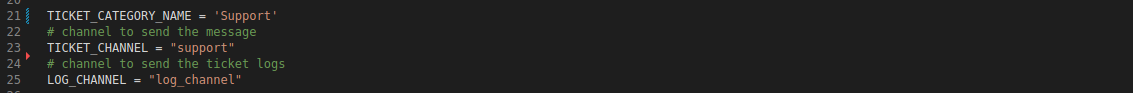
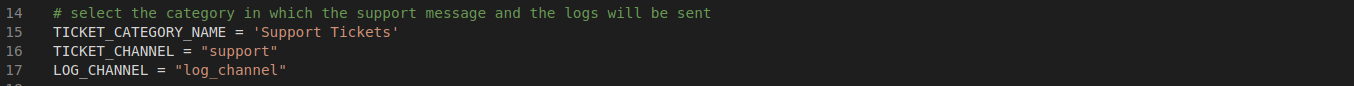
bug fixes: log sent to ticket owner. refactoring

diff --git a/bot.py b/bot.py
@@ -1,30 +1,23 @@
 # Author: brn
 
 import discord
-from discord import Permissions
 import os
 from dotenv import load_dotenv
+import re
 
-intents = discord.Intents.default()
-intents.message_content = True
-
-client = discord.Client(intents=intents)
-
-load_dotenv()
-TOKEN = os.getenv("DISCORD_TOKEN")
-
-###############CONFIG###############
-EMOJIS = ['🔑', '🥅', '📟', '👾', '🔫', '❓', '🍌'] # crypto, network, web, reverse, pwn, osint, hardware
-DELETE_EMOJI = '⛔'
+#######################################  BEGIN CONFIG  #######################################
+# select the emoji for the challenge category and for closing the ticket
 MAP_EMOJIS_CATEGORY = {'🔑': 'crypto', '🥅': 'network', '📟': 'web', '👾': 'reverse', '🔫': 'pwn', '❓': 'osint', '🍌': 'hardware', '⛔': "delete"}
+OPEN_TICKET_EMOJIS = list(MAP_EMOJIS_CATEGORY.keys())[:-1]
+CLOSE_TICKET_EMOJI = list(MAP_EMOJIS_CATEGORY.keys())[-1]
 
-TICKET_CATEGORY_NAME = 'Support'
-# channel to send the message
+# select the category in which the support message and the logs will be sent
+TICKET_CATEGORY_NAME = 'Support Tickets'
 TICKET_CHANNEL = "support"
-# channel to send the ticket logs
 LOG_CHANNEL = "log_channel"
 
-SUPPORT_MESSAGE = """Welcome to the support channel!\n
+# configure the bot messages
+MESSAGE_SUPPORT_CHANNEL = """Welcome to the support channel!\n
 React with the emoji in order to create a ticket:
 Crypto-> 🔑;
 Network-> 🥅;
@@ -33,124 +26,158 @@ Reverse -> 👾;
 Pwn -> 🔫;
 Osint -> ❓;
 Hardware -> 🍌;"""
-TICKET_MESSAGE = f""", a team member will soon reply to you.
+MESSAGE_TICKET_OPEN = f""", a team member will soon reply to you.
 
 Message template:
 Challenge: CHALLENGE_NAME
 Question: QUESTION
 
-Click on {DELETE_EMOJI} to close the ticket!"""
-###############END CONFIG###############
+Click on {CLOSE_TICKET_EMOJI} to close the ticket!"""
+
+MESSAGE_TICKET_CLOSE = 'The ticket has been closed. Sending the ticket log to the admins...'
+MESSAGE_TICKET_SEND_LOG = 'Here is the log of your ticket:'
+#######################################  END CONFIG  #######################################
+
+#######################################  BEGIN FUNCTIONS  #######################################
+def create_ticket_log(messages, channel):
+
+    log_file = 'temp_log.txt'
+
+    # removing the ticket introduction message, useless
+    messages = messages[1:]
+    
+    # crafting the log message
+    log = f'Ticket log {channel.name}:\n\n'
+    for message in messages:
+        log += f'{message.author}: {message.content}\n'
+
+    # writing the log in a specific file and parsing it for discord use
+    with open(log_file, 'w') as f:
+        f.write(log)
+
+    return './' + log_file
+
+
+def get_ticket_owner(messages):
+
+    pattern = r'<([^>]+)>'
+    ticket_owner_id = int(re.findall(pattern, messages[0].content)[0][1:])
+    ticket_owner = client.get_user(ticket_owner_id)
+
+    return ticket_owner
+#######################################  END FUNCTIONS  #######################################
+
+intents = discord.Intents.default()
+intents.message_content = True
+intents.members = True
+
+client = discord.Client(intents=intents)
+
+load_dotenv()
+TOKEN = os.getenv("DISCORD_TOKEN")
 
 
 @client.event
 async def on_ready():
-    """It sends the support message to the selected channel."""
+    """It sends the support message to the selected channel and adds the emojis."""
 
     print('Bot is ready.')
 
-    # create support category and channel
+    # create support category and channel if they do not already exist
     guild = client.guilds[0]
     category = discord.utils.get(guild.categories, name=TICKET_CATEGORY_NAME)
     if not category:
         category = await guild.create_category_channel(TICKET_CATEGORY_NAME)
     channel = discord.utils.get(guild.channels, name=TICKET_CHANNEL)
     if not channel:
-        overwrites = {
+        ticket_channel_permissions = { # everyone: read permission, bot: read and write permissions
         guild.default_role: discord.PermissionOverwrite(read_messages=True, send_messages=False),
         guild.me: discord.PermissionOverwrite(read_messages=True, send_messages=True)
         }
-        channel = await category.create_text_channel(TICKET_CHANNEL, overwrites=overwrites)   
+        channel = await category.create_text_channel(TICKET_CHANNEL, overwrites=ticket_channel_permissions)   
 
     # clear the history
     await channel.purge()
 
-    message = await channel.send(SUPPORT_MESSAGE)
+    message = await channel.send(MESSAGE_SUPPORT_CHANNEL)
 
     # add the emojis to the message
-    for emoji in EMOJIS:
+    for emoji in OPEN_TICKET_EMOJIS:
         await message.add_reaction(emoji)
 
 
 @client.event
 async def on_reaction_add(reaction, user):
-    """Depending on the selected emoji, it will create the private channel or it will delete it."""
+    """It reacts differently based on the raised emoji:
+    - if the emoji does not belong to any allowed categories, do nothing;
+    - if the emoji belongs to the OPEN_TICKET_EMOJIS it creates the ticket accordingly;
+    - if the emoji belogs to the CLOSE_TICKET_EMOJI it closes the ticket and sends the log to the ticket owner;"""
+    
     emoji = reaction.emoji
 
     # if the emoji is not in the selected ones
     if emoji not in MAP_EMOJIS_CATEGORY:
         return
     
+    # get category based on the raised emoji. Be sure that exists a role in the server with the same name
     category = MAP_EMOJIS_CATEGORY[emoji]
 
-    # avoid recursive messages
+    # avoid recursive messages from the bot
     if user.id == client.user.id:
         return
     
+
     guild = reaction.message.guild
-    
-    ticket_category = discord.utils.get(guild.categories, name=TICKET_CATEGORY_NAME)
-    if not ticket_category:
-        ticket_category = await guild.create_category(TICKET_CATEGORY_NAME)
+    private_ticket_category = discord.utils.get(guild.categories, name=TICKET_CATEGORY_NAME)
 
-    # if the reaction belongs to the EMOJIS (it's not the delete emoji)
-    if str(reaction.emoji) in EMOJIS and reaction.message.content == SUPPORT_MESSAGE:
+    ########## Case 1: the emoji belongs to the OPEN_TICKET_EMOJIS
+    if str(reaction.emoji) in OPEN_TICKET_EMOJIS and reaction.message.content == MESSAGE_SUPPORT_CHANNEL:
 
-        # create the new channel with the right permissions (category+admin)
-        category_permission = {
+        # create the new channel with the right permissions (role+admin)
+        private_ticket_permissions = {
             guild.default_role: discord.PermissionOverwrite(read_messages=False),
             user: discord.PermissionOverwrite(read_messages=True),
-            # the category corresponds with a role. for a "web" ticket, a new channel is created with "admins", "web" role and person who created it.
             discord.utils.get(guild.roles, name=category): discord.PermissionOverwrite(read_messages=True)
         }
-
-        # creating the channel and sending the initial message
-        channel = await guild.create_text_channel(f'{category}-{user.display_name}', overwrites=category_permission, category=ticket_category)
-        message = await channel.send(f"{user.name}"+TICKET_MESSAGE)
-        await message.add_reaction(DELETE_EMOJI)
+        channel = await guild.create_text_channel(f'{category}-{user.display_name}', overwrites=private_ticket_permissions, category=private_ticket_category)
+        message = await channel.send(f"{user.mention}"+MESSAGE_TICKET_OPEN)
+        await message.add_reaction(CLOSE_TICKET_EMOJI)
     
-    # if the emoji is the delete one    
-    elif str(reaction.emoji) == DELETE_EMOJI and reaction.message.channel.category and reaction.message.channel.category.name == TICKET_CATEGORY_NAME and reaction.message.author == client.user:
-        channel = reaction.message.channel
-        await channel.send(f'The ticket has been closed by {user.name}. Sending the ticket log to the admins...')
+    ########## Case 2: the emoji belongs to the CLOSE_TICKET_EMOJI   
+    elif str(reaction.emoji) == CLOSE_TICKET_EMOJI and reaction.message.channel.category and reaction.message.channel.category.name == TICKET_CATEGORY_NAME and reaction.message.author == client.user:
         
-        # create log_channel inside the support category
+        channel = reaction.message.channel
+        await channel.send(MESSAGE_TICKET_CLOSE)
+        
+        # create the channel that will receive the log
         guild = client.guilds[0]
         category = discord.utils.get(guild.categories, name=TICKET_CATEGORY_NAME)
-        if not category:
-            category = await guild.create_category_channel(TICKET_CATEGORY_NAME)
         log_channel = discord.utils.get(guild.text_channels, name=LOG_CHANNEL)
         if not log_channel:
-            admin_permission = {
+            admin_permissions = {
                 guild.default_role: discord.PermissionOverwrite(read_messages=False),
                 guild.me: discord.PermissionOverwrite(read_messages=True)
             }
-            log_channel = await guild.create_text_channel(LOG_CHANNEL, overwrites=admin_permission, category=ticket_category)
+            log_channel = await guild.create_text_channel(LOG_CHANNEL, overwrites=admin_permissions, category=ticket_category)
         
 
         # get the ticket history
         messages = []
         async for message in channel.history(limit=None):
             messages.insert(0, message)
-        # removing the ticket initial message
-        messages = messages[1:]
-        # collect the log in a string
-        log_content = f'Ticket log {channel.name}:\n\n'
-        for message in messages:
-            log_content += f'{message.author}: {message.content}\n'
-
-        # write the log in a specific file and send it
-        with open(f'temp_log.txt', 'w') as f:
-            f.write(log_content)
-        file_path = './temp_log.txt'
-        file = discord.File(file_path)
-        await log_channel.send(file=file)
-                
-        # send the log to the user who created the ticket
-        dm_channel = await user.create_dm()
-        file = discord.File(file_path)
-        await dm_channel.send('Here is the log of your ticket:', file=file)
         
+        # get the ticket owner and the path of the log file
+        ticket_owner = get_ticket_owner(messages)
+        log_path = create_ticket_log(messages, channel)
+
+        # send the log file to the log channel
+        discord_ticket_log = discord.File(log_path)
+        await log_channel.send(file=discord_ticket_log)
+        
+        # send the log to the ticket owner
+        dm_channel = await ticket_owner.create_dm()
+        discord_ticket_log = discord.File(log_path)
+        await dm_channel.send(MESSAGE_TICKET_SEND_LOG, file=discord_ticket_log)
         
         await channel.delete()
 

diff --git a/readme.md b/readme.md
@@ -11,7 +11,7 @@ This bot will help you manage tickets during CTF (Capture The Flag) events.
 <img src="img/private_ticket.png" width="600" height="350">
 
 
-3\) When the user reacts with the "close ticket" emoji, the private channel will be removed and the ticket log is sent in the log channel (in this case the channel is named "log_channel").
+3\) When the user reacts with the "close ticket" emoji, the private channel will be removed and the ticket log is sent to the log channel and to the ticket owner (in this case the channel is named "log_channel").  
 <img src="img/close_ticket.png" width="600" height="325">  
 <img src="img/ticket_log.png" width="800" height="300">
 
@@ -36,7 +36,7 @@ DISCORD_TOKEN='<TOKEN_SAVED_FROM_BEFORE>'
 
 ### 3. Configure the bot messages
 Choose how many challenge categories you want. In this case there are 7 categories: crypto, web, network, reverse, binary, osint and hardware. Select one emoji for each category and edit them accordingly.  
-IMPORTANT: you need to have different roles for each category. In order to create roles go to "server settings", "roles", "create role". In this case, the server has 7 roles and each role is assigned to different people.  
+IMPORTANT: you need to have different roles for each category. Every time that a ticket is created, it is assigned to the corresponding role. For example, if a 'crypto' ticket is created, it is assigned to the 'crypto' role and the people that belong to that role. In order to create roles go to "server settings", "roles", "create role".    
 <img src="img/config_emoji.png">  
 
 Select the category in which the support channel and the log channel will be placed (look at the first image of this file for clarification).  
@@ -49,6 +49,7 @@ Define the messages that will be sent in the support channel and the one that wi
 ```bash
 pip install discord.py
 pip install python-dotenv
+pip install regex
 ```
 
 ## Docker instance
